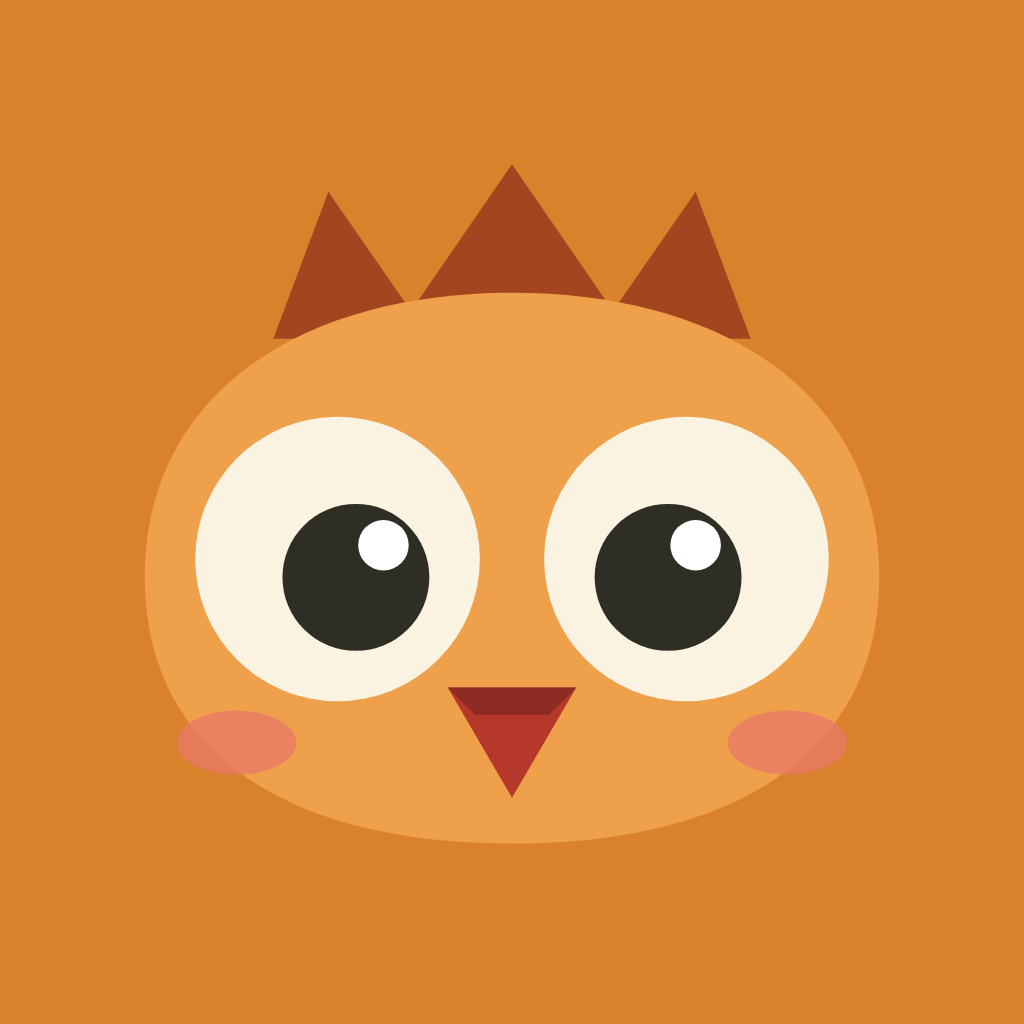
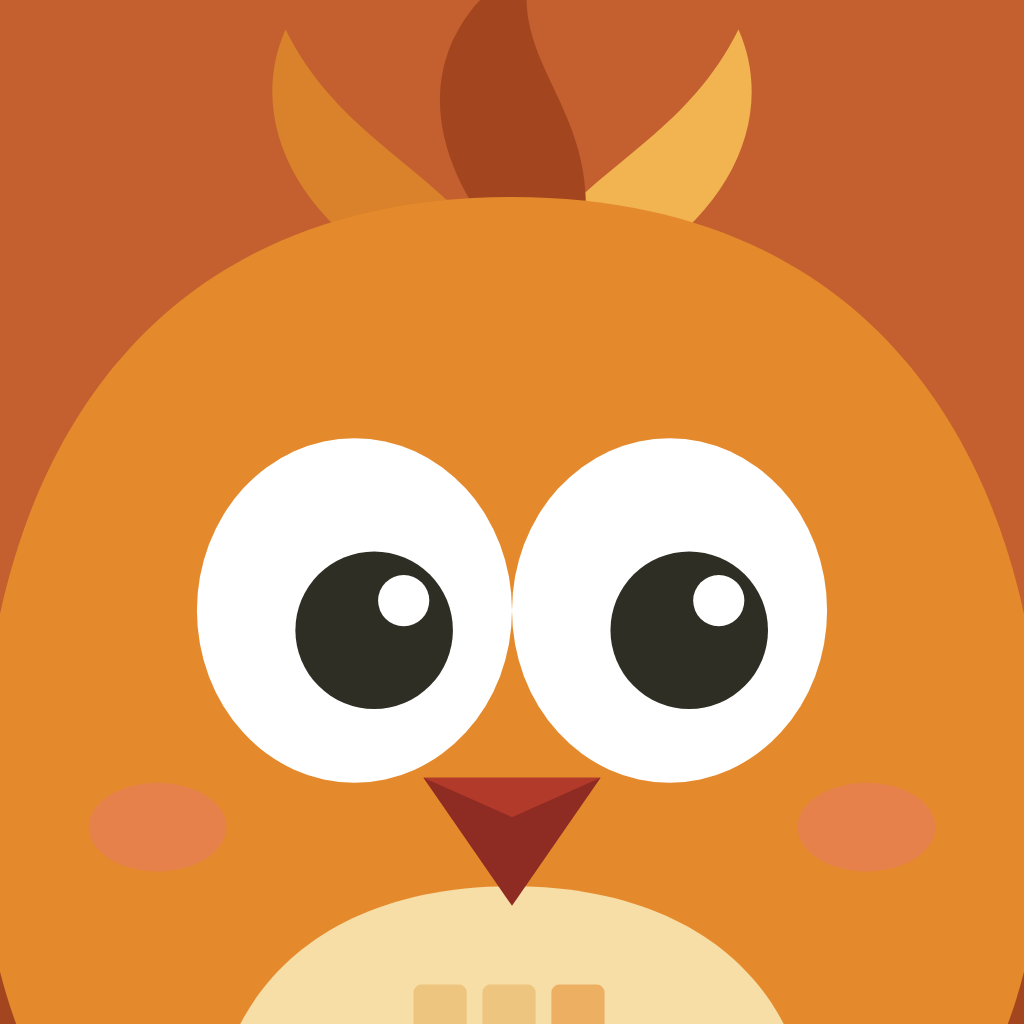
120 Hz ekran, yeni Anka simgesi, yuvada konuşma balonu ve yetersiz taş uyarısı düzeltmesi
Claude-Session: https://claude.ai/code/session_01DB1QP3eZ25UbK9ALqcb5yA

diff --git a/js/yuva.js b/js/yuva.js
@@ -21,7 +21,7 @@ function petLine(){const p=S.pet;if(YV.sleep)return'Zzz… Uyandırmak için pen
   return pickL(['Yuvama hoş geldin!','Sepete dokun, birlikte yiyelim.','Dolaba bak, bana bir şey giydir!','Radyoyu açarsan dans ederim!'])}
 const friendLv=()=>1+Math.floor(((S.pet.fed||0)+(S.pet.pets||0)/12)/6);
 function nestBird(mood,act){const b=$('#nBird');if(!b)return;b.innerHTML=anka(mood||petMood(),260,undefined,act||'')}
-function nestSay(t){const e=$('#nSay');if(!e)return;e.textContent=t;e.classList.remove('pop');void e.offsetWidth;e.classList.add('pop')}
+function nestSay(t){const e=$('#nSay');if(!e)return;e.textContent=t;e.classList.remove('spop');void e.offsetWidth;e.classList.add('spop')}
 function nestBars(){const p=S.pet,f=$('#nFood'),j=$('#nJoy');if(f)f.style.width=p.food+'%';if(j)j.style.width=p.joy+'%';
   const l=$('#nLv');if(l)l.textContent=friendLv();const g=$('#nGem');if(g)g.textContent=S.gems;
   const c=$('#nBasketN');if(c){const n=Object.values(p.inv).reduce((a,b)=>a+(b||0),0);c.textContent=n;c.hidden=!n}}
@@ -83,7 +83,7 @@ function feed(id,from){const it=SHOP.find(i=>i.id===id),p=S.pet;if(YV.busy||!it)
   setTimeout(()=>{p.food=Math.min(100,p.food+it.food.t);p.joy=Math.min(100,p.joy+it.food.j);p.fed=(p.fed||0)+1;p.t=p.t||Date.now();save();nestBars();
     nestBird(p.food>=75&&p.joy>=75?'love':'cheer','act-jump');sfx.ok();YV.busy=false;
     const b=$('#nBird');if(b){const r=b.getBoundingClientRect();heartsAt(r.left+r.width/2,r.top+r.height*.3,3)}},reduce?300:1900)}
-function buyItem(id){const it=SHOP.find(i=>i.id===id);if(!it||S.gems<it.price){toast(fi('gem',20)+' Yeterli mozaik taşın yok. Ders yaparak taş kazanabilirsin.');sfx.bad();return false}
+function buyItem(id,inNest){const it=SHOP.find(i=>i.id===id);if(!it||S.gems<it.price){if(inNest){nestSay('Bunun için '+(it?it.price:'')+' mozaik taşı lazım. Ders yaparak taş kazanabilirsin!');nestBird('sad');sfx.bad();return false}toast(fi('gem',20)+' Yeterli mozaik taşın yok. Ders yaparak taş kazanabilirsin.');sfx.bad();return false}
   S.gems-=it.price;if(it.food)S.pet.inv[id]=(S.pet.inv[id]||0)+1;else if(it.cos){S.owned[id]=1;S.wear[it.slot]=id}save();sfx.coin();renderStats();nestBars();return true}
 function openTray(k){if(YV.sleep){nestSay('Anka uyuyor. Önce pencereye dokunup uyandır.');return}if(YV.tray===k){closeTray();return}YV.tray=k;sfx.tap();trayRender();
   nestSay(k==='food'?'Bir yiyeceği bana sürükle ya da dokun!':'Hangisini giyeyim?')}
@@ -106,7 +106,7 @@ document.addEventListener('click',e=>{
   const o=e.target.closest('[data-nobj]');if(o){const k=o.dataset.nobj;if(k==='window'){sfx.tap();setSleep(!YV.sleep);return}if(k==='music'){toggleMusic();return}openTray(k);return}
   if(e.target.closest('[data-nclose]')){closeTray();return}
   const sl=e.target.closest('[data-nslot]');if(sl){YV.slot=sl.dataset.nslot;sfx.tap();trayRender();return}
-  const b=e.target.closest('[data-nbuy]');if(b){const it=SHOP.find(i=>i.id===b.dataset.nbuy);if(buyItem(it.id)){if(it.cos){nestBird('wow','act-spin');nestSay('Yeni bir şey mi? Hemen giyiyorum!')}else nestSay(it.name+' sepete eklendi!');trayRender()}return}
+  const b=e.target.closest('[data-nbuy]');if(b){const it=SHOP.find(i=>i.id===b.dataset.nbuy);if(buyItem(it.id,true)){if(it.cos){nestBird('wow','act-spin');nestSay('Yeni bir şey mi? Hemen giyiyorum!')}else nestSay(it.name+' sepete eklendi!');trayRender()}return}
   const w=e.target.closest('[data-wear]');if(w){const it=SHOP.find(i=>i.id===w.dataset.wear);S.wear[it.slot]=S.wear[it.slot]===it.id?null:it.id;save();sfx.tap();
     nestBird(S.wear[it.slot]?'wow':'happy','act-spin');nestSay(S.wear[it.slot]?pickL(['Nasıl görünüyorum?','Bu bana çok yakıştı!','Şimdi çok havalıyım!']):'Tamam, onu çıkardım.');trayRender();return}
   if(YV.tray&&!e.target.closest('#nTray'))closeTray();

diff --git a/css/style.css b/css/style.css
@@ -568,8 +568,8 @@ textarea.codes{width:100%;font:500 .9rem/1.4 var(--mono);padding:12px;border:1px
 .goals button{display:flex;justify-content:space-between;padding:14px 16px;border:1px solid var(--line);border-bottom-width:5px;border-radius:4px;background:var(--raised);cursor:pointer;font-weight:800}
 .goals button[aria-pressed="true"]{border-color:var(--terra);background:var(--terra-soft);color:var(--terra-ts)}
 .mbox input[type=text],.mbox input:not([type]){width:100%;font:700 1.2rem/1.2 var(--body);padding:14px;border:1px solid var(--line);border-radius:4px;background:var(--tessera);color:var(--ink);text-align:center}
-#toast{position:fixed;left:50%;bottom:90px;z-index:60;transform:translate(-50%,calc(100% + 160px));opacity:0;visibility:hidden;display:flex;align-items:center;gap:10px;padding:12px 18px;border-radius:4px;background:var(--olive-deep);color:#F4EAD6;font-weight:800;transition:transform .3s;width:max-content;max-width:min(440px,calc(100vw - 32px));box-sizing:border-box;border-left:6px solid var(--ember)}
-#toast.show{transform:translate(-50%,0);opacity:1;visibility:visible}
+#toast{position:fixed;left:50%;bottom:90px;z-index:60;pointer-events:none;transform:translate(-50%,calc(100% + 160px));opacity:0;visibility:hidden;display:flex;align-items:center;gap:10px;padding:12px 18px;border-radius:4px;background:var(--olive-deep);color:#F4EAD6;font-weight:800;transition:transform .3s;width:max-content;max-width:min(440px,calc(100vw - 32px));box-sizing:border-box;border-left:6px solid var(--ember)}
+#toast.show{transform:translate(-50%,0);opacity:1;visibility:visible;pointer-events:auto;cursor:pointer}
 #fx{position:fixed;inset:0;pointer-events:none;z-index:70;width:100%;height:100%}
 
 @media (max-width:1200px){
@@ -769,7 +769,7 @@ textarea.codes{width:100%;font:500 .9rem/1.4 var(--mono);padding:12px;border:1px
 .ncnt[hidden]{display:none}
 .nsay{position:absolute;left:50%;top:calc(24% - 20px);transform:translateX(-50%);max-width:min(340px,70%);background:#FBF6EA;color:#2F2E24;border:2px solid #2F2E24;border-radius:16px;padding:9px 14px;font-weight:700;font-size:.95rem;text-align:center;z-index:5;box-shadow:0 4px 0 rgba(47,46,36,.25);margin:0}
 .nsay::after{content:"";position:absolute;left:50%;bottom:-9px;width:14px;height:14px;background:#FBF6EA;border-right:2px solid #2F2E24;border-bottom:2px solid #2F2E24;transform:translateX(-50%) rotate(45deg)}
-.nsay.pop{animation:sayPop .35s cubic-bezier(.2,1.5,.4,1)}
+.nsay.spop{animation:sayPop .35s cubic-bezier(.2,1.5,.4,1)}
 @keyframes sayPop{from{transform:translateX(-50%) scale(.85);opacity:.3}to{transform:translateX(-50%) scale(1);opacity:1}}
 .nbird{position:absolute;left:50%;bottom:calc(16% + 34px);transform:translateX(-50%);z-index:2;cursor:grab;touch-action:none;outline:none;transition:transform .2s}
 .nbird .anka{width:min(58cqw,46cqh,440px);height:auto}
@@ -803,7 +803,7 @@ textarea.codes{width:100%;font:500 .9rem/1.4 var(--mono);padding:12px;border:1px
 .nestlink{display:grid;grid-template-columns:auto 1fr auto;gap:14px;align-items:center;text-decoration:none;color:var(--ink);margin-bottom:6px;transition:transform .12s}
 .nestlink:hover{transform:translateY(-2px)}.nestlink p{color:var(--muted);font-size:.92rem}
 @media (max-width:640px){.nestlink{grid-template-columns:auto 1fr}.nestlink .b3{grid-column:1 / -1}}
-@media (prefers-reduced-motion:reduce){.nh,.nnote,.nfood,.nsay.pop,.ntray,.nrad.on svg{animation:none}}
+@media (prefers-reduced-motion:reduce){.nh,.nnote,.nfood,.nsay.spop,.ntray,.nrad.on svg{animation:none}}
 
 /* ===== Geçişler ve hareket ===== */
 /* Sayfa geçişi: yalnızca sayfanın içeriği yumuşakça belirir. Üst çubuk ve alt menü hiç oynamaz. */

diff --git a/js/core.js b/js/core.js
@@ -71,6 +71,8 @@ document.addEventListener('click',e=>{const b=e.target.closest('[data-say]');if(
 /* Bildirim, pencere, konfeti */
 let toastT;
 function toast(h){const t=$('#toast');t.innerHTML=h;t.classList.add('show');clearTimeout(toastT);toastT=setTimeout(()=>t.classList.remove('show'),2800)}
+/* Bildirime dokununca hemen kapanır */
+document.addEventListener('click',e=>{if(e.target.closest('#toast')){clearTimeout(toastT);$('#toast').classList.remove('show')}});
 function openModal(html,wide){$('#mbox').className='mbox'+(wide?' wide':'');$('#mbox').innerHTML=html;$('#modal').hidden=false;const f=$('#mbox button,#mbox input');if(f)setTimeout(()=>f.focus(),30)}
 function closeModal(){$('#modal').hidden=true;delete $('#mbox').dataset.lockbg}
 document.addEventListener('DOMContentLoaded',()=>{$('#modal').addEventListener('click',e=>{if(e.target.id==='modal'&&!$('#mbox').dataset.lockbg)closeModal()})});

diff --git a/android/MainActivity.java b/android/MainActivity.java
@@ -1,12 +1,13 @@
 package org.antiochrising.bilimkivilcimi;
 
+import android.os.Build;
 import android.os.Bundle;
 import android.view.Display;
 import android.view.WindowManager;
 import com.getcapacitor.BridgeActivity;
 
-/* Ekranın desteklediği en yüksek yenileme hızını (120 Hz gibi) iste.
-   Android varsayılan olarak WebView uygulamalarını çoğu zaman 60 Hz'de tutar. */
+/* Ekranın desteklediği en yüksek yenileme hızını (ör. 120 Hz) ister.
+   Android, uygulama özellikle istemezse çoğu telefonda 60 Hz'de tutar. */
 public class MainActivity extends BridgeActivity {
   @Override
   public void onCreate(Bundle savedInstanceState) {
@@ -21,9 +22,12 @@ public class MainActivity extends BridgeActivity {
   }
 
   private void highRefresh() {
+    if (Build.VERSION.SDK_INT < Build.VERSION_CODES.M) return;
     try {
-      Display d = getWindowManager().getDefaultDisplay();
-      Display.Mode cur = d.getMode(), best = cur;
+      Display d = Build.VERSION.SDK_INT >= Build.VERSION_CODES.R ? getDisplay() : getWindowManager().getDefaultDisplay();
+      if (d == null) return;
+      Display.Mode cur = d.getMode();
+      Display.Mode best = cur;
       for (Display.Mode m : d.getSupportedModes()) {
         if (m.getPhysicalWidth() == cur.getPhysicalWidth() && m.getPhysicalHeight() == cur.getPhysicalHeight()
             && m.getRefreshRate() > best.getRefreshRate()) best = m;
@@ -32,6 +36,6 @@ public class MainActivity extends BridgeActivity {
       lp.preferredDisplayModeId = best.getModeId();
       lp.preferredRefreshRate = best.getRefreshRate();
       getWindow().setAttributes(lp);
-    } catch (Throwable t) { }
+    } catch (Exception e) { }
   }
 }
